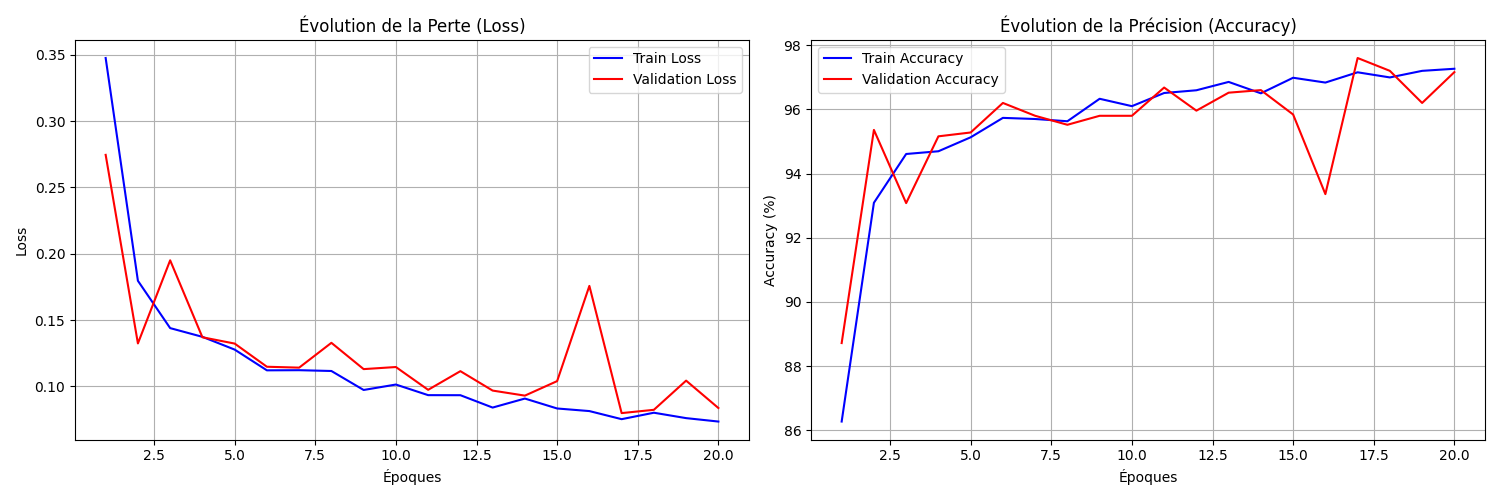
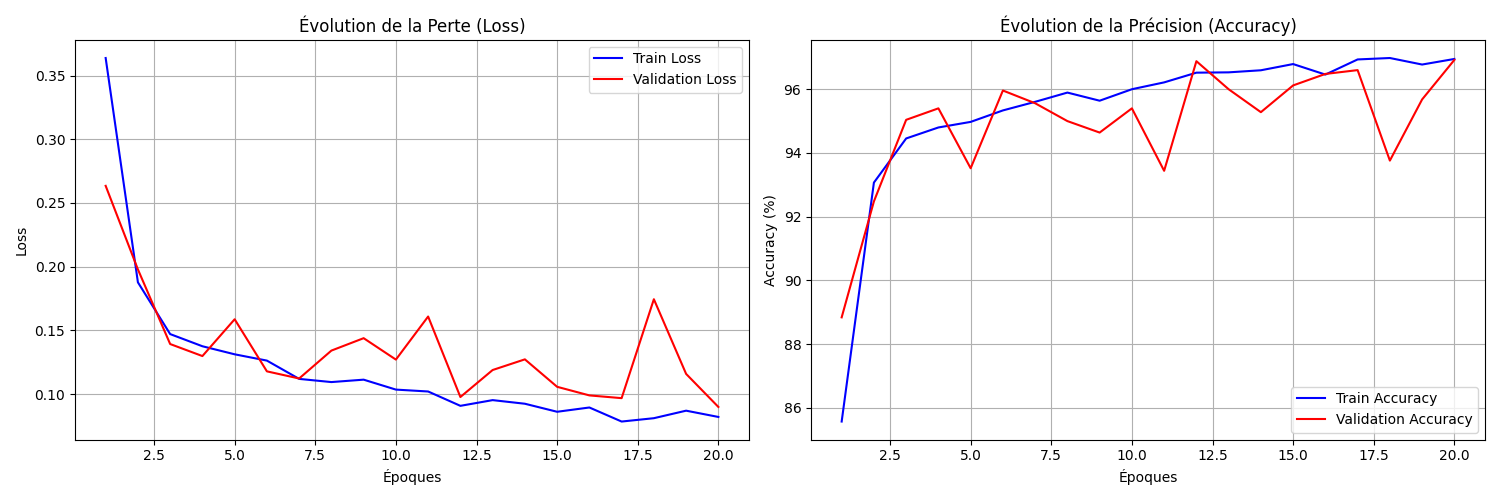
Ajout tableau ssm/vision_Mamba

diff --git a/rapport/tab/perf_report_ssm_vision_mamba.tex b/rapport/tab/perf_report_ssm_vision_mamba.tex
@@ -1,0 +1,32 @@
+\begin{table}[H]
+\centering
+\caption{Rapport de performance --- Approche : \texttt{ssm}, Modèle : \texttt{vision_mamba}}
+\label{tab:perf_ssm_vision_mamba}
+\begin{tabular}{lr}
+\toprule
+Métrique & Valeur \\
+\midrule
+Accuracy & 0.9660 \\
+Recall (pondéré) & 0.9660 \\
+F1-Score (pondéré) & 0.9660 \\
+AUC-ROC (OVR) & 0.9984 \\
+\bottomrule
+\end{tabular}
+
+\vspace{0.4cm}
+
+\begin{tabular}{lrrrr}
+\toprule
+ & Précision & Rappel & F1 & Support \\
+Classe &  &  &  &  \\
+\midrule
+colon\_aca & 0.9589 & 0.9800 & 0.9693 & 500.0000 \\
+colon\_n & 0.9938 & 0.9600 & 0.9766 & 500.0000 \\
+lung\_aca & 0.9406 & 0.9500 & 0.9453 & 500.0000 \\
+lung\_n & 0.9842 & 0.9980 & 0.9911 & 500.0000 \\
+lung\_scc & 0.9534 & 0.9420 & 0.9477 & 500.0000 \\
+Macro avg & 0.9662 & 0.9660 & 0.9660 & 2500.0000 \\
+Weighted avg & 0.9662 & 0.9660 & 0.9660 & 2500.0000 \\
+\bottomrule
+\end{tabular}
+\end{table}
